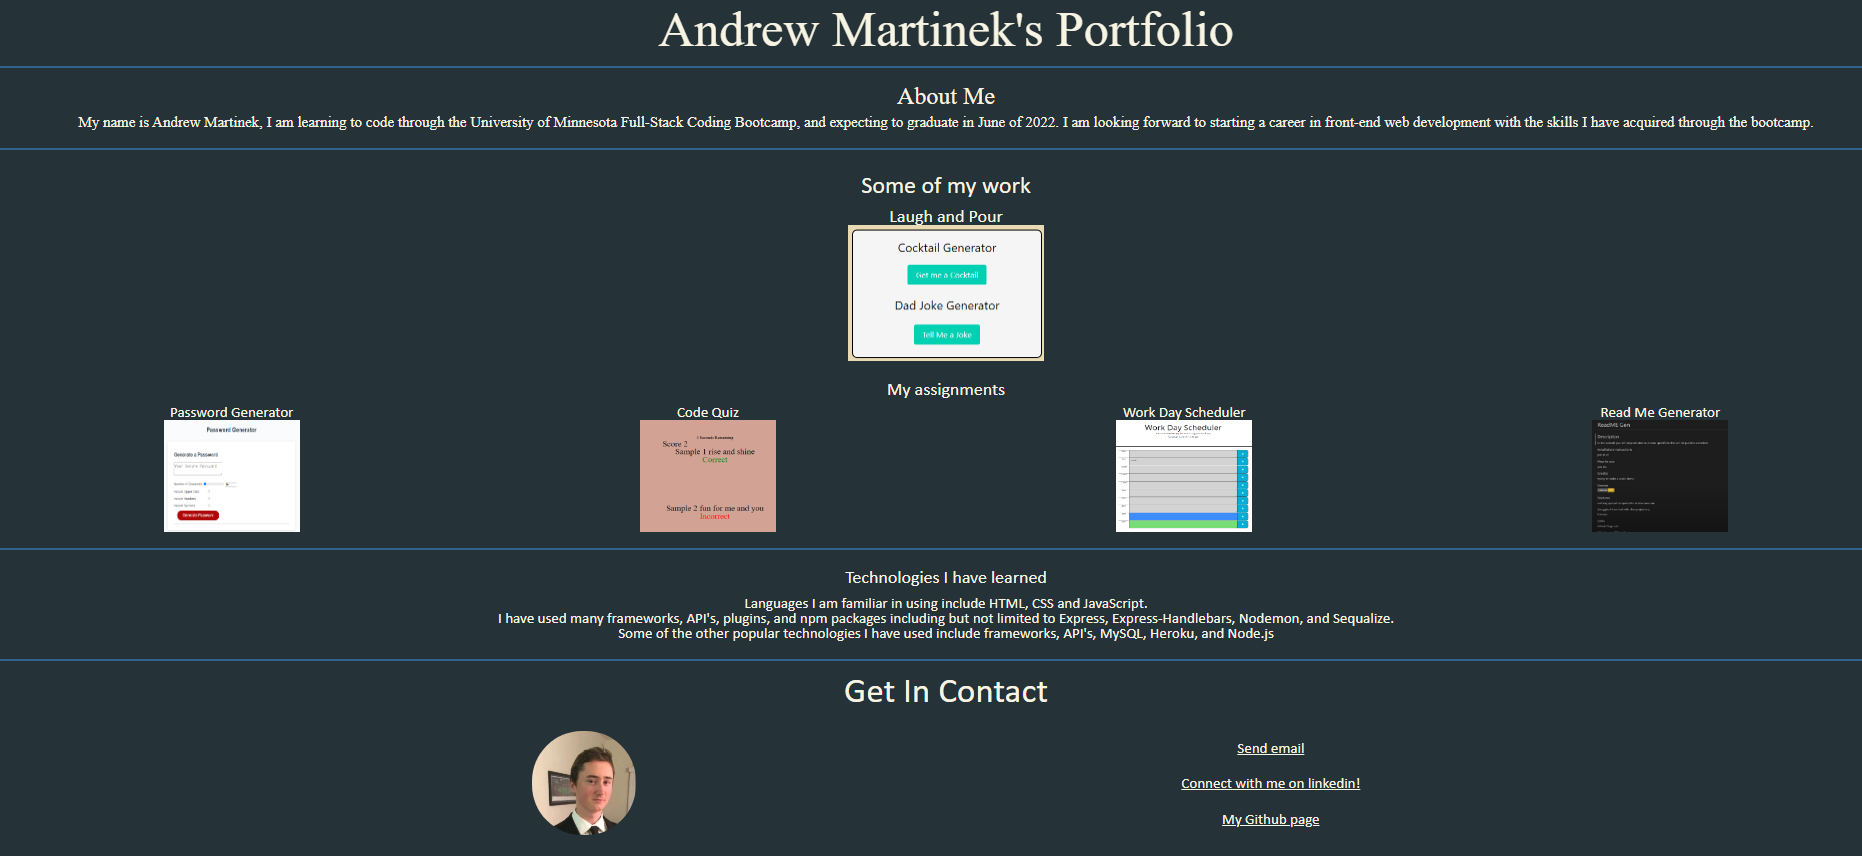
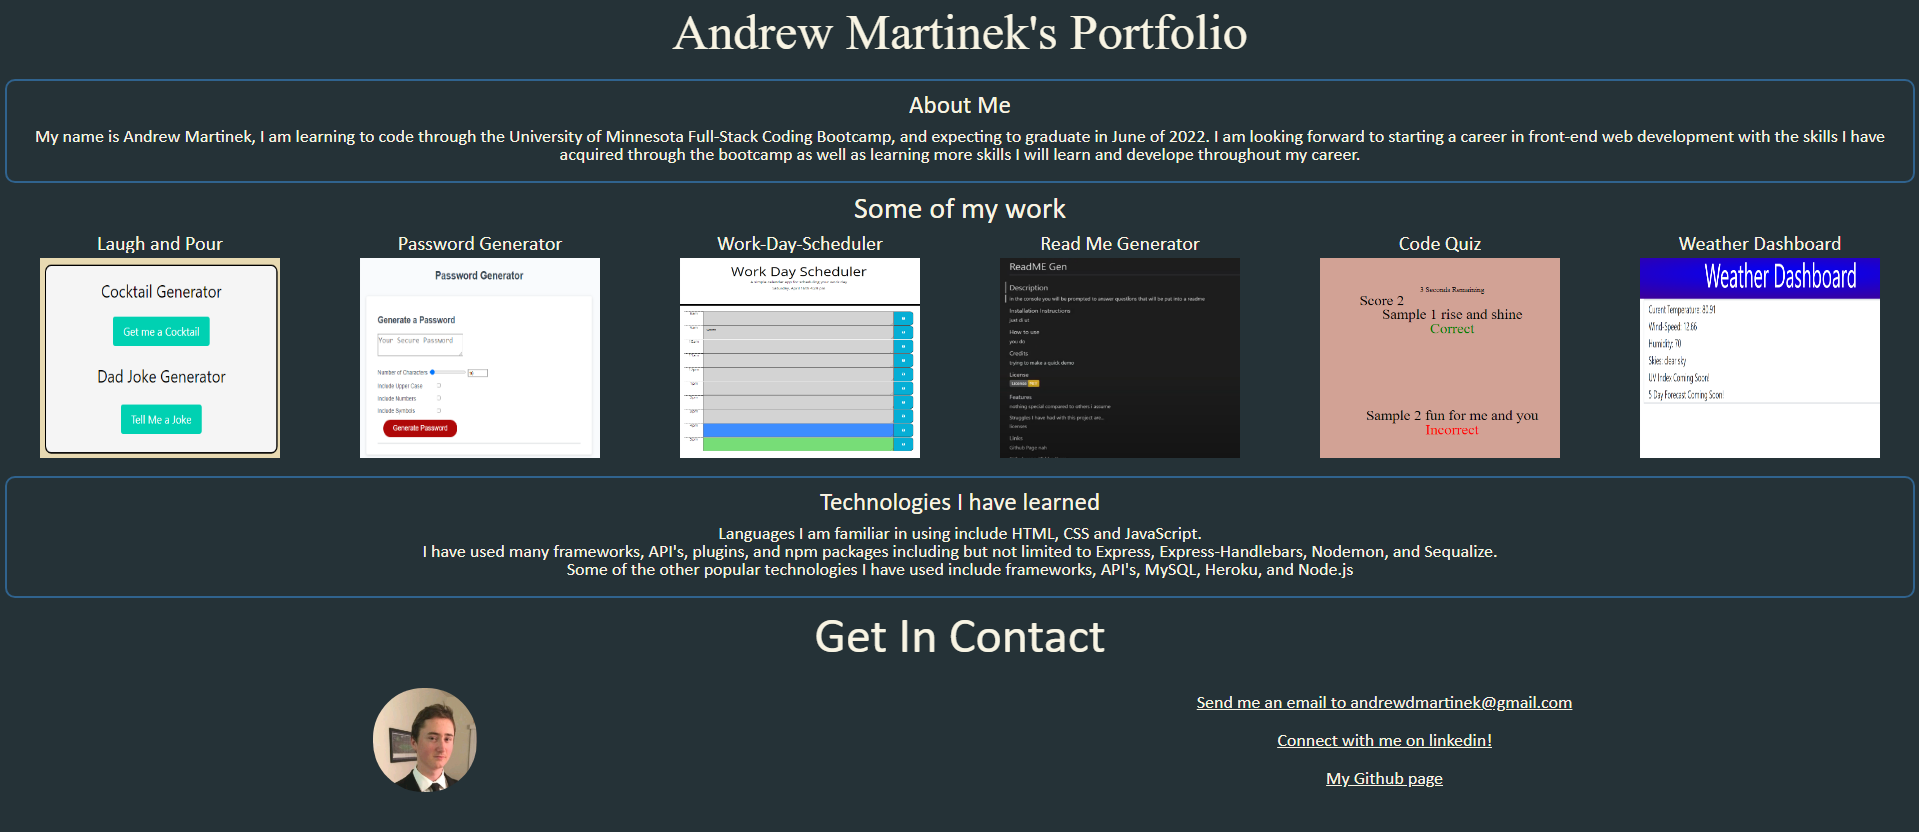
weather dashboard page, README updated

diff --git a/html/Weather-Dashboard.html b/html/Weather-Dashboard.html
@@ -1,0 +1,30 @@
+<!DOCTYPE html>
+<html lang="en">
+
+<head>
+    <meta charset="UTF-8">
+    <meta http-equiv="X-UA-Compatible" content="IE=edge">
+    <meta name="viewport" content="width=device-width, initial-scale=1.0">
+    <title>Weather-Dashboard</title>
+    <link rel="stylesheet" href="../assets/css/style.css">
+</head>
+
+<body>
+    <header>Weather-Dashboard</header>
+    <h2><a href="../index.html">Back to the main page.</a></h2>
+    <div>
+        <div>
+            <a href="https://minnesotaboy2.github.io/weather-dashboard/"><img src="../assets/images/Weather-dash.png" alt="Weather-Dashboard"></a>
+        </div>
+        <div>
+            <h2 class="card">This application was made to show understanding of and ability to recieve data from third party APIs. This application uses the Open Weather API to bring you the current weather of any city you look up.</h2>
+        </div>
+        <div class="font-36 card">
+            Type in the city that you want to know the weather information of and it will respond with that cities current weather. It is not currently complete, not sure it's worth completing at the moment since there are so many weather apps, but I do intend on adding local storage, current city information as well as UV index. <br><br>
+            <a href="https://minnesotaboy2.github.io/weather-dashboard/">This application's page.</a><br><br>
+            <a href="https://github.com/Minnesotaboy2/weather-dashboard">This application's Github repository.</a>
+        </div>
+    </div>
+</body>
+
+</html>

diff --git a/html/workdayScheduler.html b/html/workdayScheduler.html
@@ -18,14 +18,14 @@
                     src="../assets/images/workdayscheduler.png" alt="work-day-scheduler"></a>
             <div>
                 <h2 class="card">This assignment is a demonstration of my ability and understanding for using JavaScript
-                    APIs from the internet as well as user interaction and local storage.</h2>
+                    APIs from the internet such as jQuery and Moment.js, as well as user interaction and local storage.</h2>
             </div>
             <div class="font-36 card">
                 Put in things you need to remember on the schedule, save it on the timeslot when you click the
                 savebutton. current current hour is blue, upcoming hours are green, other hour blocks are grey. saves
                 and stays in place with refresh, closing and reopening the tab, closing and reopining in another window.
-                <br>
-                <a href="https://minnesotaboy2.github.io/work-day-scheduler/">Link to this project.</a><br>
+                <br><br>
+                <a href="https://minnesotaboy2.github.io/work-day-scheduler/">Link to this project.</a><br><br>
                 <a href="https://github.com/Minnesotaboy2/work-day-scheduler">Link to this project's repository.</a>
             </div>
         </div>

diff --git a/index.html b/index.html
@@ -54,7 +54,7 @@
                 </div>
                 <div class="column">
                     <h2>Weather Dashboard</h2>
-                    <a href="./html/coming-soon.html"><img src="./assets/images/Weather-dash.png"
+                    <a href="./html/Weather-Dashboard.html"><img src="./assets/images/Weather-dash.png"
                             alt="Weather-Dashboard"></a>
                 </div>
             </div>
@@ -79,7 +79,7 @@
                     </div>
                     <div class="font-36 space-around column">
                         <div>
-                            <a href="mailto: andrewdmartinek@gmail.com">Send me an email</a>
+                            <a href="mailto: andrewdmartinek@gmail.com">Send me an email to andrewdmartinek@gmail.com</a> 
                         </div>
                         <div id="linkedin">
                             <a href="https://www.linkedin.com/in/andrew-martinek-a20441231/">Connect with me on

diff --git a/html/passwordGen.html b/html/passwordGen.html
@@ -41,10 +41,10 @@
                 <p id="password-copy">Password copied to clipboard!</p>
             </div>
             <div>
-                This app is a random password generator created for an assignment for the UofM Coding Bootcamp, you can
+                This app is a random password generator created for an assignment for the UofM Coding Bootcamp to show proficiency in basic JavaScript. You can
                 set the passwords characters between 8 and 128, you can choose whether or not to include uppercase,
                 numbers, or symbols by checking the boxes. Click Generate password and you have your password! Click
-                copy Password to copy it to your clipboard!
+                copy Password to copy it to your clipboard! <br><br>
             </div>
             <div>
                 <a href="https://github.com/Minnesotaboy2/passwordGenerator">This project's repository</a>

diff --git a/html/laughAndPour.html b/html/laughAndPour.html
@@ -37,8 +37,9 @@
                     the click of a button, with the option to save a joke or cocktail for future reference. The images
                     above are links to <a href="https://lsmarch.github.io/project-1/">the project.</a></div>
 
-                <div>This project focuses mainly on Javascript and HTML, with a sprinkling of CSS. <br>
-                    <a href="https://github.com/LSMarch/project-1">This project's repository.</a>
+                <div>This project focuses mainly on Javascript and HTML, with a sprinkling of CSS. <br><br>
+                    <a href="https://github.com/LSMarch/project-1">This project's repository.</a><br><br>
+                    <a href="https://lsmarch.github.io/project-1/">This project's page.</a>
                 </div>
                 <div>
                     <div class="card">

diff --git a/html/readMeGen.html b/html/readMeGen.html
@@ -25,7 +25,9 @@
                 This application was made to run in the terminal to make ReadMe.md files quickly. Above you will see a
                 video demonstrating the application. <br> When you run the
                 program it will prompt you with questions in the terminal/shell where you ran it and then puts your
-                responses in a formatted README.md file.
+                responses in a formatted README.md file. <br><br>
+                <a href="https://drive.google.com/file/d/1_xNUa748qL1GZjQ6QCM3MzcqWEn9Yvfs/view">This application's demonstration video</a> <br><br>
+                <a href="https://github.com/Minnesotaboy2/readme-gen">This application's Github repository</a>
             </div>
         </div>
     </div>

diff --git a/html/codeQuiz.html b/html/codeQuiz.html
@@ -32,8 +32,8 @@
 
             Score is updated and can be saved with initials, most recent score will be displayed at the bottom upon
             clicking "save score" and will be updated upon refresh or closing the tab and re-opening it.
-            <br>
-            <a href="https://minnesotaboy2.github.io/Code-Quiz/">Link to this project.</a><br>
+            <br><br>
+            <a href="https://minnesotaboy2.github.io/Code-Quiz/">Link to this project.</a><br><br>
             <a href="https://github.com/Minnesotaboy2/Code-Quiz">Link to this project's repository</a>
 
         </div>

diff --git a/README.md b/README.md
@@ -29,3 +29,7 @@ Page contains a brief description of the assignment and contains a link to the p
 ## README Generator 
 Page contains a brief description of the application as well as an embeded video demonstrating usage.
 ![PageScrnSht](./assets/images/readmegen1.png)
+
+ ## Weather Dashboard
+ Page contains a brief description of the application and future plans for improvement
+ ![PageScrnSht](./assets/images/Weather-dash1.png)
